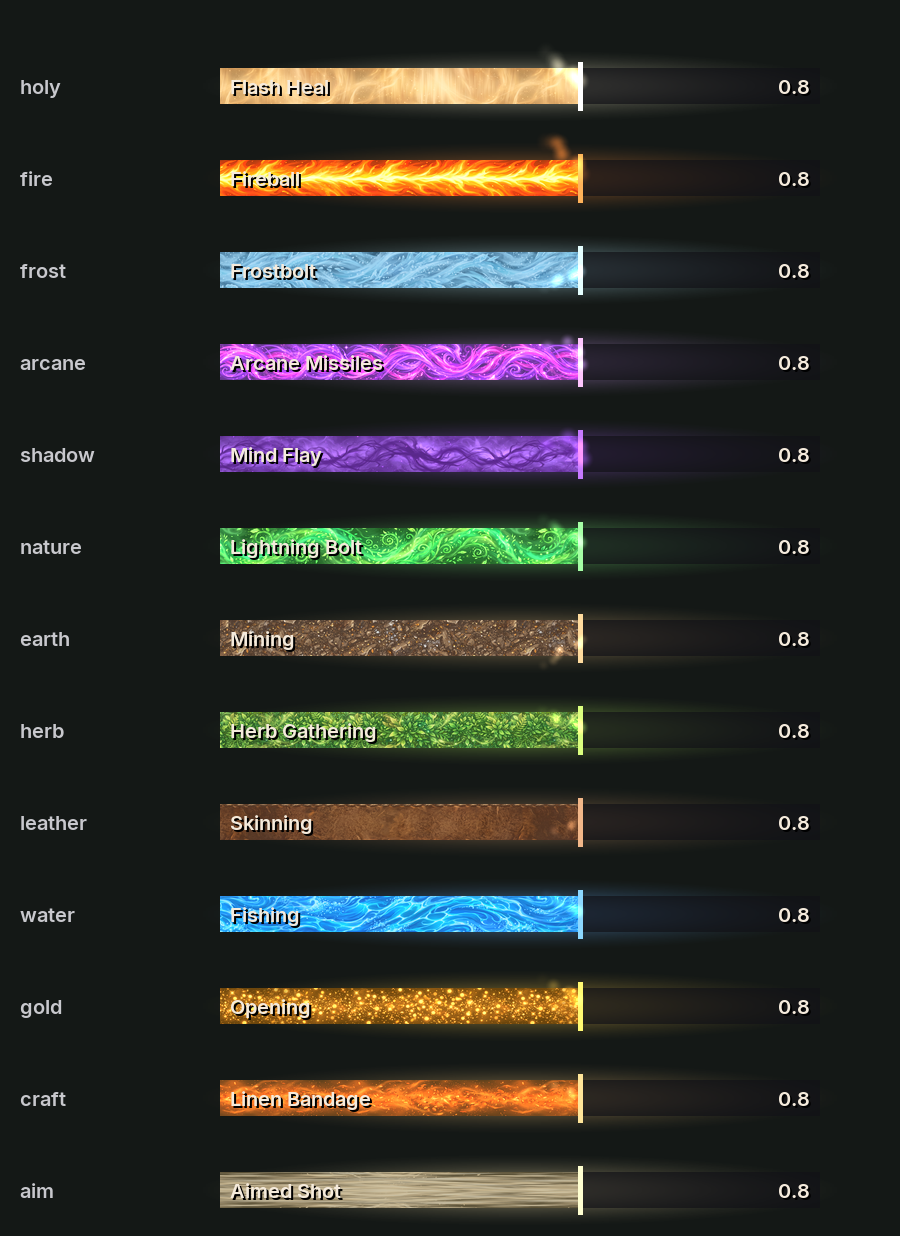
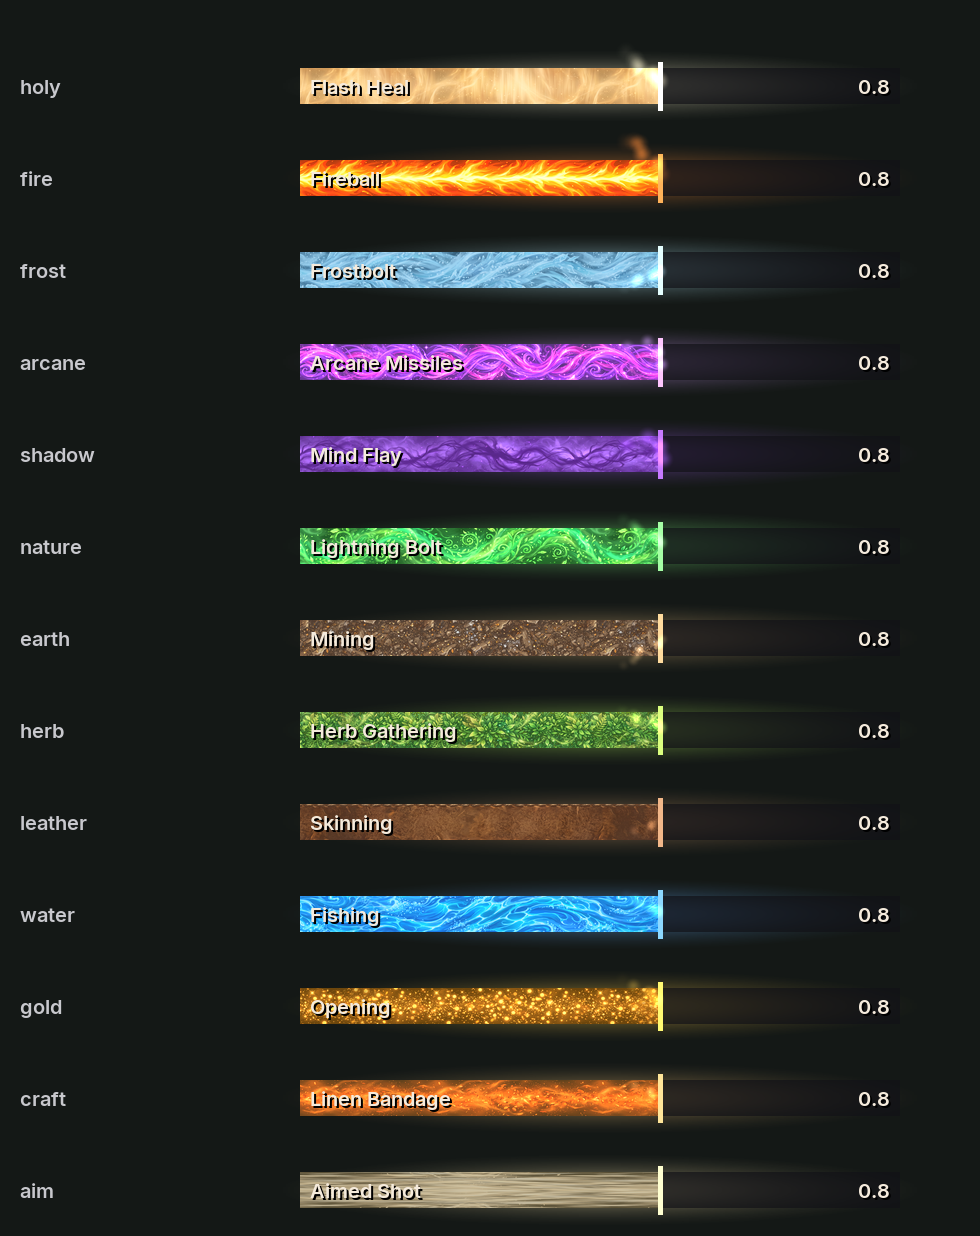
docs(castbar): per-class spell strip previews (render_cast_themes.py --spells)
docs/mockups/cast-spells-<class>.png: every class's strips on the cast bar,
drawn from what the real CastThemes.Apply / Tick set in the harness (the strip
it drew, its blend mode, fill, glow, motes). The renderer now draws the strip
the code actually chose (T.active.art) rather than assuming the theme's; one
row per strip, labelled with a spell it covers; warns if a row drew another
strip. Label column wider (cast-themes.png re-rendered).

diff --git a/dev/render_cast_themes.py b/dev/render_cast_themes.py
@@ -1,16 +1,21 @@
-"""Render a PREVIEW of every cast bar theme to docs/mockups/cast-themes.png.
+"""Render PREVIEWS of the cast bar: every school theme (docs/mockups/cast-themes.png) or, with --spells, every class's
+own spell strips (docs/mockups/cast-spells-<class>.png).
 
 Not a screenshot of WoW. The real HogTron_HUD (HUD.lua + Castbar.lua + CastThemes.lua) runs in the test harness;
-for each theme this script starts a cast, moves time on so the fill sits at 60 %, lets CastThemes.Tick place the
-glow and the motes, then reads back what the code set (fill colour, glow colour / alpha, mote positions / sizes /
-alphas, spark colour, texts) and draws it with the addon's own target_glow.tga, Inter font and additive light.
+for each row this script starts a cast through CastThemes.Apply (the theme, and for --spells the spell's own strip),
+moves time on so the fill sits at 60 %, lets CastThemes.Tick place the glow and the motes, then reads back what the
+code set (fill colour, which strip it drew and in which blend mode, glow colour / alpha, mote positions / sizes /
+alphas, spark colour, texts) and draws it with the addon's own art, Inter font and additive light.
 
     python dev/render_cast_themes.py [--scale 2]
+    python dev/render_cast_themes.py --spells [--scale 2]
 """
 from __future__ import annotations
 
 import argparse
+import json
 import pathlib
+import re
 import sys
 
 from PIL import Image, ImageChops, ImageDraw, ImageFont
@@ -19,13 +24,16 @@ ROOT = pathlib.Path(__file__).resolve().parent.parent
 sys.path.insert(0, str(ROOT / "tests"))
 from loader import AddonLoader  # noqa: E402
 
-OUT = ROOT / "docs" / "mockups" / "cast-themes.png"
-GLOW = ROOT / "HogTronUI" / "Media" / "target_glow.tga"
-FONT = ROOT / "HogTronUI" / "Media" / "Fonts" / "Inter-SemiBold.ttf"
-W, H, ROW, LEFT = 300, 18, 46, 110
+MOCKUPS = ROOT / "docs" / "mockups"
+OUT = MOCKUPS / "cast-themes.png"
+MEDIA = ROOT / "HogTronUI" / "Media"
+GLOW = MEDIA / "target_glow.tga"
+FONT = MEDIA / "Fonts" / "Inter-SemiBold.ttf"
+W, H, ROW, LEFT = 300, 18, 46, 150
 SAMPLES = {"holy": "Flash Heal", "fire": "Fireball", "frost": "Frostbolt", "arcane": "Arcane Missiles", "shadow": "Mind Flay",
            "nature": "Lightning Bolt", "earth": "Mining", "herb": "Herb Gathering", "leather": "Skinning", "water": "Fishing",
            "gold": "Opening", "craft": "Linen Bandage", "aim": "Aimed Shot"}
+CLASSES = ("mage", "warrior", "paladin", "hunter", "rogue", "priest", "shaman", "warlock", "druid")
 
 
 def vals(t):
@@ -43,88 +51,129 @@ def add_light(img, x, y, w, h, rgba, s):
     img.paste(ImageChops.add(region, light), (x0, y0))
 
 
+def paint_row(lua, img, d, font, s, row, label, key, art, name):
+    """One bar: cast `name` with theme `key` (and the spell strip `art`, or None) through the real Apply / Tick."""
+    art_arg = f'"{art}"' if art else "nil"
+    lua.execute(f'''
+      MockUnits.player.casting = {{ "{name}", "{name}", "icon", 100000, 102000, false, 1, false, nil }}
+      HogHealsHUD.Castbar.state.casting = false
+      MockState.time = 100
+      local C = HogHealsHUD.Castbar
+      C.state.preview = nil
+      local b = HH_cb
+      local T = HogHealsHUD.CastThemes
+      b:SetStatusBarColor(0.13, 0.83, 0.88)
+      T.Apply(b, "{key}", 100, {art_arg})
+      b.text:SetText("{name}")
+      b:SetValue(0.6)
+      T.Tick(b, 0.6, 100.8)''')
+    y0 = 20 + row * ROW + ROW / 2
+    x0 = LEFT
+    L = lua.eval("HogHealsHUD.CastThemes.layers")
+    active = lua.eval("HogHealsHUD.CastThemes.active")
+    cb = lua.eval("HH_cb")
+    d.text((10 * s, y0 * s), label, fill=(200, 200, 205), font=font, anchor="lm")
+    if L["glow"]["_shown"]:
+        add_light(img, x0 + W / 2, y0, W + 24, H + 18, vals(L["glow"]["_color"]), s)
+    # bar: ink background at 0.7, then the fill
+    bg = Image.new("RGB", (W * s, H * s), (18, 18, 23))
+    region = img.crop((int(x0 * s), int((y0 - H / 2) * s), int((x0 + W) * s), int((y0 + H / 2) * s)))
+    img.paste(Image.blend(region, bg, 0.7), (int(x0 * s), int((y0 - H / 2) * s)))
+    fc = tuple(int(v * 255) for v in vals(cb["_color"])[:3])
+    d.rectangle([x0 * s, (y0 - H / 2) * s, (x0 + W * 0.6) * s - 1, (y0 + H / 2) * s - 1], fill=fc)
+    layer = L["art"]
+    drawn = active["art"] if active is not None else None
+    if layer["_shown"] and drawn:
+        # the strip the code really drew: repeated, scaled to the bar's height, cropped to u0..u1 (REPEAT wrap)
+        tc = vals(layer["_texCoord"])
+        strip = Image.open(MEDIA / f"cast_{drawn}.tga").convert("RGBA")
+        rep = int(512 * H / 64 * s)
+        strip = strip.resize((rep, int(H * s)), Image.LANCZOS)
+        fill_w = int(W * 0.6 * s)
+        u0 = tc[0] % 1.0
+        start = int(u0 * rep)
+        tiles = Image.new("RGBA", (rep * (fill_w // rep + 3), int(H * s)))
+        for k in range(fill_w // rep + 3):
+            tiles.paste(strip, (k * rep, 0))
+        piece = tiles.crop((start, 0, start + fill_w, int(H * s)))
+        alpha = vals(layer["_color"])[3] if len(vals(layer["_color"])) > 3 else 1
+        region = img.crop((int(x0 * s), int((y0 - H / 2) * s), int(x0 * s) + fill_w, int((y0 + H / 2) * s)))
+        blend = vals(layer["_last"]["SetBlendMode"])[0] if layer["_last"]["SetBlendMode"] is not None else "BLEND"
+        if blend == "ADD":
+            rgb = piece.convert("RGB").point(lambda v: int(v * alpha))
+            img.paste(ImageChops.add(region, rgb), (int(x0 * s), int((y0 - H / 2) * s)))
+        else:
+            a = piece.getchannel("A").point(lambda v: int(v * alpha))
+            region.paste(piece.convert("RGB"), (0, 0), a)
+            img.paste(region, (int(x0 * s), int((y0 - H / 2) * s)))
+    sp = tuple(int(min(1, v) * 255) for v in vals(cb["spark"]["_color"])[:3]) if cb["spark"]["_color"] else (255, 255, 255)
+    d.rectangle([(x0 + W * 0.6 - 1) * s, (y0 - H / 2 - 3) * s, (x0 + W * 0.6 + 1) * s, (y0 + H / 2 + 3) * s], fill=sp)
+    for m in L["motes"].values():
+        if not m["_shown"] or not m["_points"][1]:
+            continue
+        p = vals(m["_points"][1])
+        add_light(img, x0 + p[3], y0 - p[4], m["_width"] * 2.2, m["_height"] * 2.2, vals(m["_color"]), s)
+    # the HUD font's look in game: cream with a 1 px black drop shadow (Look.lua "shadow" edge, the default)
+    for (tx, anchor, txt) in (((x0 + 5), "lm", name), ((x0 + W - 5), "rm", "0.8")):
+        d.text(((tx + 1) * s, (y0 + 1) * s), txt, fill=(0, 0, 0), font=font, anchor=anchor)
+        d.text((tx * s, y0 * s), txt, fill=(245, 235, 220), font=font, anchor=anchor)
+    lua.execute("HogHealsHUD.CastThemes.Clear(HH_cb)")
+    return drawn
+
+
+def sheet(lua, s, rows, out):
+    """rows: (label, theme key, spell strip or None, cast name)."""
+    font = ImageFont.truetype(str(FONT), 10 * s)
+    img = Image.new("RGB", ((LEFT + W + 40) * s, (ROW * len(rows) + 20) * s), (20, 24, 22))
+    d = ImageDraw.Draw(img)
+    for i, (label, key, art, name) in enumerate(rows):
+        drawn = paint_row(lua, img, d, font, s, i, label, key, art, name)
+        if art and drawn != art:
+            print(f"  WARNING {label}: wanted {art}, drew {drawn}")
+    out.parent.mkdir(parents=True, exist_ok=True)
+    img.save(out)
+    print("wrote", out.relative_to(ROOT))
+
+
+def spell_rows(lua):
+    """Per class: one row per strip, labelled with the first spell it covers, cast through T.SpellArt's own match."""
+    rows = {c: [] for c in CLASSES}
+    owner = {}
+    for c in CLASSES[1:]:
+        for st in json.loads((ROOT / "dev" / "data" / f"spell_art_{c}.json").read_text())["strips"]:
+            owner.setdefault(st["strip"], c)
+    src = (ROOT / "HogTron_HUD" / "CastThemes.lua").read_text(encoding="utf-8")
+    seen = set()
+    for pat, art, theme in re.findall(r'\{ "([^"]+)", "(spell_[a-z_]+)", "([a-z]+)" \}', src):
+        if art in seen:
+            continue
+        seen.add(art)
+        name = pat.strip("^$").replace("%-", "-")
+        if name == "Poison":
+            name = "Instant Poison"
+        if lua.eval(f'(HogHealsHUD.CastThemes.SpellArt("{name}"))') != art:
+            print(f"  note: '{name}' does not match {art} on its own name")
+        rows[owner.get(art, "mage")].append((name, theme, art, name))
+    return rows
+
+
 def main():
     ap = argparse.ArgumentParser()
     ap.add_argument("--scale", type=int, default=2)
-    s = ap.parse_args().scale
+    ap.add_argument("--spells", action="store_true", help="one sheet per class of the per-spell strips")
+    a = ap.parse_args()
+    s = a.scale
     lua = AddonLoader().bootstrap()
-    for a in ("HogTronUI", "HogTron_HUD"):
-        lua.load_addon(a)
+    for addon in ("HogTronUI", "HogTron_HUD"):
+        lua.load_addon(addon)
     lua.player_login()
     lua.execute("HH_cb = HogHealsHUD.HUD.rows.castbar; HH_cb:SetWidth(300); HH_cb:SetHeight(18); MockState.time = 100")
-    order = list(lua.eval("HogHealsHUD.CastThemes.ORDER").values())
-    font = ImageFont.truetype(str(FONT), 10 * s)
-    img = Image.new("RGB", ((LEFT + W + 40) * s, (ROW * len(order) + 20) * s), (20, 24, 22))
-    d = ImageDraw.Draw(img)
-    for row, key in enumerate(order):
-        name = SAMPLES[key]
-        lua.execute(f'''
-          MockUnits.player.casting = {{ "{name}", "{name}", "icon", 100000, 102000, false, 1, false, nil }}
-          HogHealsHUD.Castbar.state.casting = false
-          MockState.time = 100''')
-        lua.execute(f'''
-          local C = HogHealsHUD.Castbar
-          C.state.preview = nil
-          local b = HH_cb
-          -- start through the real path, with the theme forced (no spell to read here)
-          local T = HogHealsHUD.CastThemes
-          b:SetStatusBarColor(0.13, 0.83, 0.88)
-          T.Apply(b, "{key}", 100)
-          b.text:SetText("{name}")
-          b:SetValue(0.6)
-          T.Tick(b, 0.6, 100.8)''')
-        y0 = 20 + row * ROW + ROW / 2
-        x0 = LEFT
-        L = lua.eval("HogHealsHUD.CastThemes.layers")
-        cb = lua.eval("HH_cb")
-        d.text((10 * s, y0 * s), key, fill=(200, 200, 205), font=font, anchor="lm")
-        if L["glow"]["_shown"]:
-            add_light(img, x0 + W / 2, y0, W + 24, H + 18, vals(L["glow"]["_color"]), s)
-        # bar: ink background at 0.7, then the fill
-        bg = Image.new("RGB", (W * s, H * s), (18, 18, 23))
-        region = img.crop((int(x0 * s), int((y0 - H / 2) * s), int((x0 + W) * s), int((y0 + H / 2) * s)))
-        img.paste(Image.blend(region, bg, 0.7), (int(x0 * s), int((y0 - H / 2) * s)))
-        fc = tuple(int(v * 255) for v in vals(cb["_color"])[:3])
-        d.rectangle([x0 * s, (y0 - H / 2) * s, (x0 + W * 0.6) * s - 1, (y0 + H / 2) * s - 1], fill=fc)
-        art = L["art"]
-        if art["_shown"]:
-            # the strip: repeated, scaled so it keeps its shape at the bar's height, cropped to u0..u1 (REPEAT wrap)
-            tc = vals(art["_texCoord"])
-            strip = Image.open(ROOT / "HogTronUI" / "Media" / f"cast_{key}.tga").convert("RGBA")
-            rep = int(512 * H / 64 * s)
-            strip = strip.resize((rep, int(H * s)), Image.LANCZOS)
-            fill_w = int(W * 0.6 * s)
-            u0 = tc[0] % 1.0
-            start = int(u0 * rep)
-            tiles = Image.new("RGBA", (rep * (fill_w // rep + 3), int(H * s)))
-            for k in range(fill_w // rep + 3):
-                tiles.paste(strip, (k * rep, 0))
-            piece = tiles.crop((start, 0, start + fill_w, int(H * s)))
-            alpha = vals(art["_color"])[3] if len(vals(art["_color"])) > 3 else 1
-            region = img.crop((int(x0 * s), int((y0 - H / 2) * s), int(x0 * s) + fill_w, int((y0 + H / 2) * s)))
-            blend = vals(art["_last"]["SetBlendMode"])[0] if art["_last"]["SetBlendMode"] is not None else "BLEND"
-            if blend == "ADD":
-                rgb = piece.convert("RGB").point(lambda v: int(v * alpha))
-                img.paste(ImageChops.add(region, rgb), (int(x0 * s), int((y0 - H / 2) * s)))
-            else:
-                a = piece.getchannel("A").point(lambda v: int(v * alpha))
-                region.paste(piece.convert("RGB"), (0, 0), a)
-                img.paste(region, (int(x0 * s), int((y0 - H / 2) * s)))
-        sp = tuple(int(min(1, v) * 255) for v in vals(cb["spark"]["_color"])[:3]) if cb["spark"]["_color"] else (255, 255, 255)
-        d.rectangle([(x0 + W * 0.6 - 1) * s, (y0 - H / 2 - 3) * s, (x0 + W * 0.6 + 1) * s, (y0 + H / 2 + 3) * s], fill=sp)
-        for m in L["motes"].values():
-            if not m["_shown"] or not m["_points"][1]:
-                continue
-            p = vals(m["_points"][1])
-            add_light(img, x0 + p[3], y0 - p[4], m["_width"] * 2.2, m["_height"] * 2.2, vals(m["_color"]), s)
-        # the HUD font's look in game: cream with a 1 px black drop shadow (Look.lua "shadow" edge, the default)
-        for (tx, anchor, txt) in (((x0 + 5), "lm", name), ((x0 + W - 5), "rm", "0.8")):
-            d.text(((tx + 1) * s, (y0 + 1) * s), txt, fill=(0, 0, 0), font=font, anchor=anchor)
-            d.text((tx * s, y0 * s), txt, fill=(245, 235, 220), font=font, anchor=anchor)
-        lua.execute("HogHealsHUD.CastThemes.Clear(HH_cb)")
-    OUT.parent.mkdir(parents=True, exist_ok=True)
-    img.save(OUT)
-    print("wrote", OUT.relative_to(ROOT))
+    if a.spells:
+        for cls, rows in spell_rows(lua).items():
+            sheet(lua, s, rows, MOCKUPS / f"cast-spells-{cls}.png")
+    else:
+        order = list(lua.eval("HogHealsHUD.CastThemes.ORDER").values())
+        sheet(lua, s, [(k, k, None, SAMPLES[k]) for k in order], OUT)
     errs = [e["msg"] for e in lua.eval("HogHeals.errors").values()]
     print("addon errors:", errs or "none")
     return 1 if errs else 0
